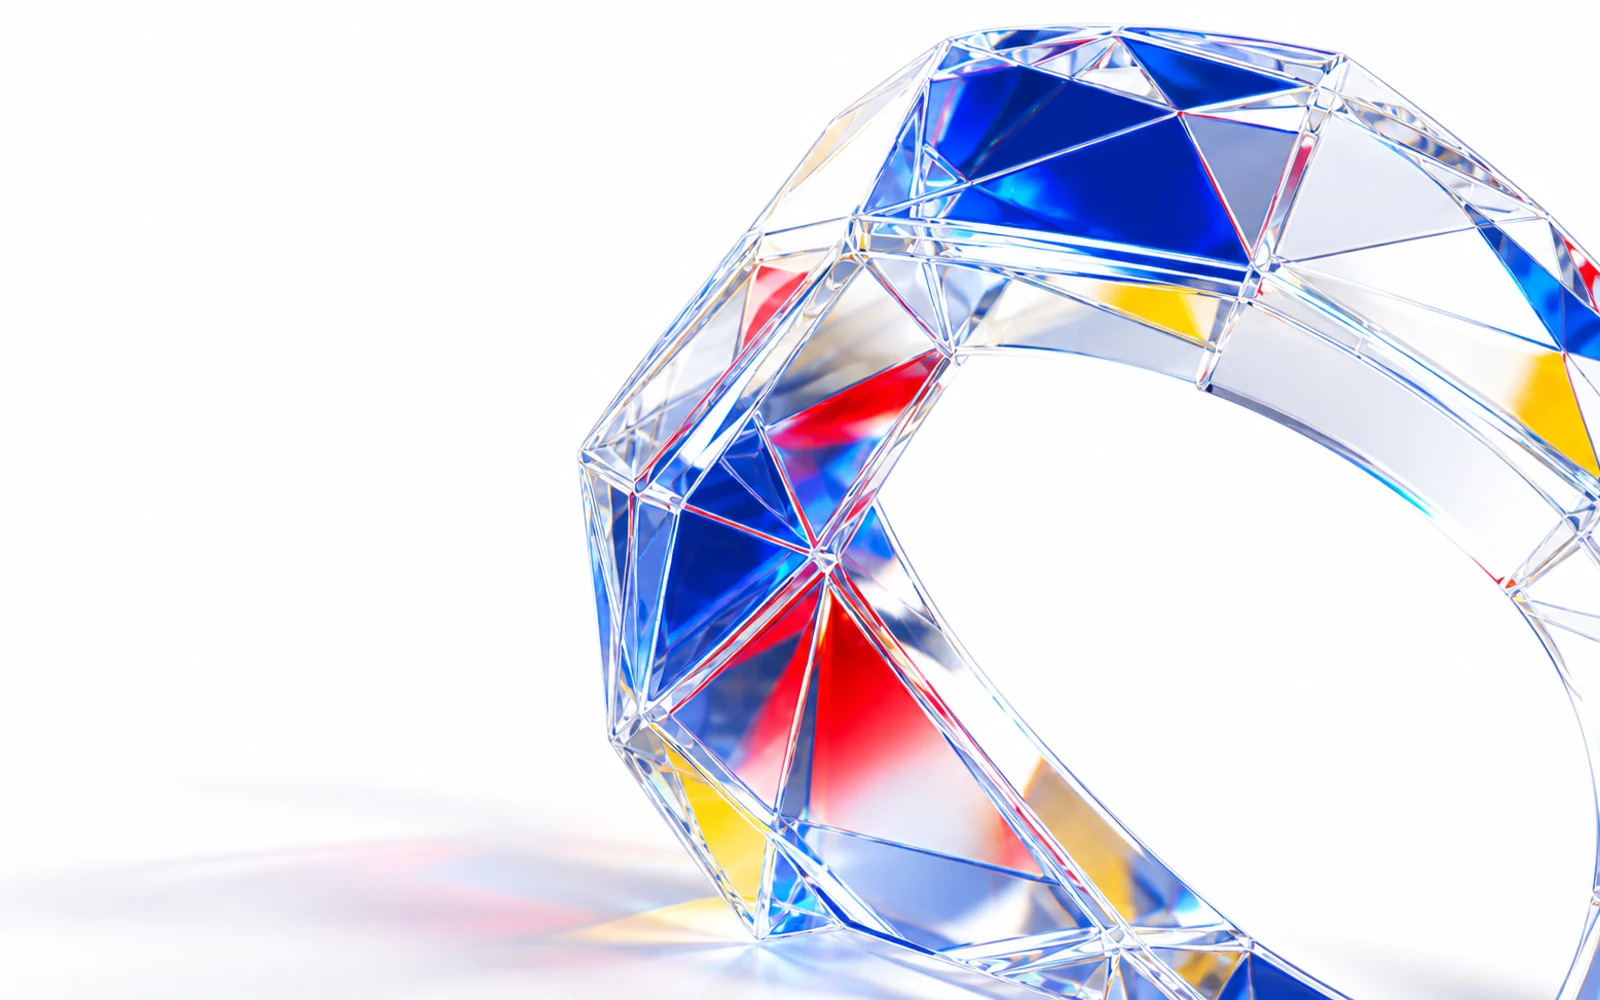
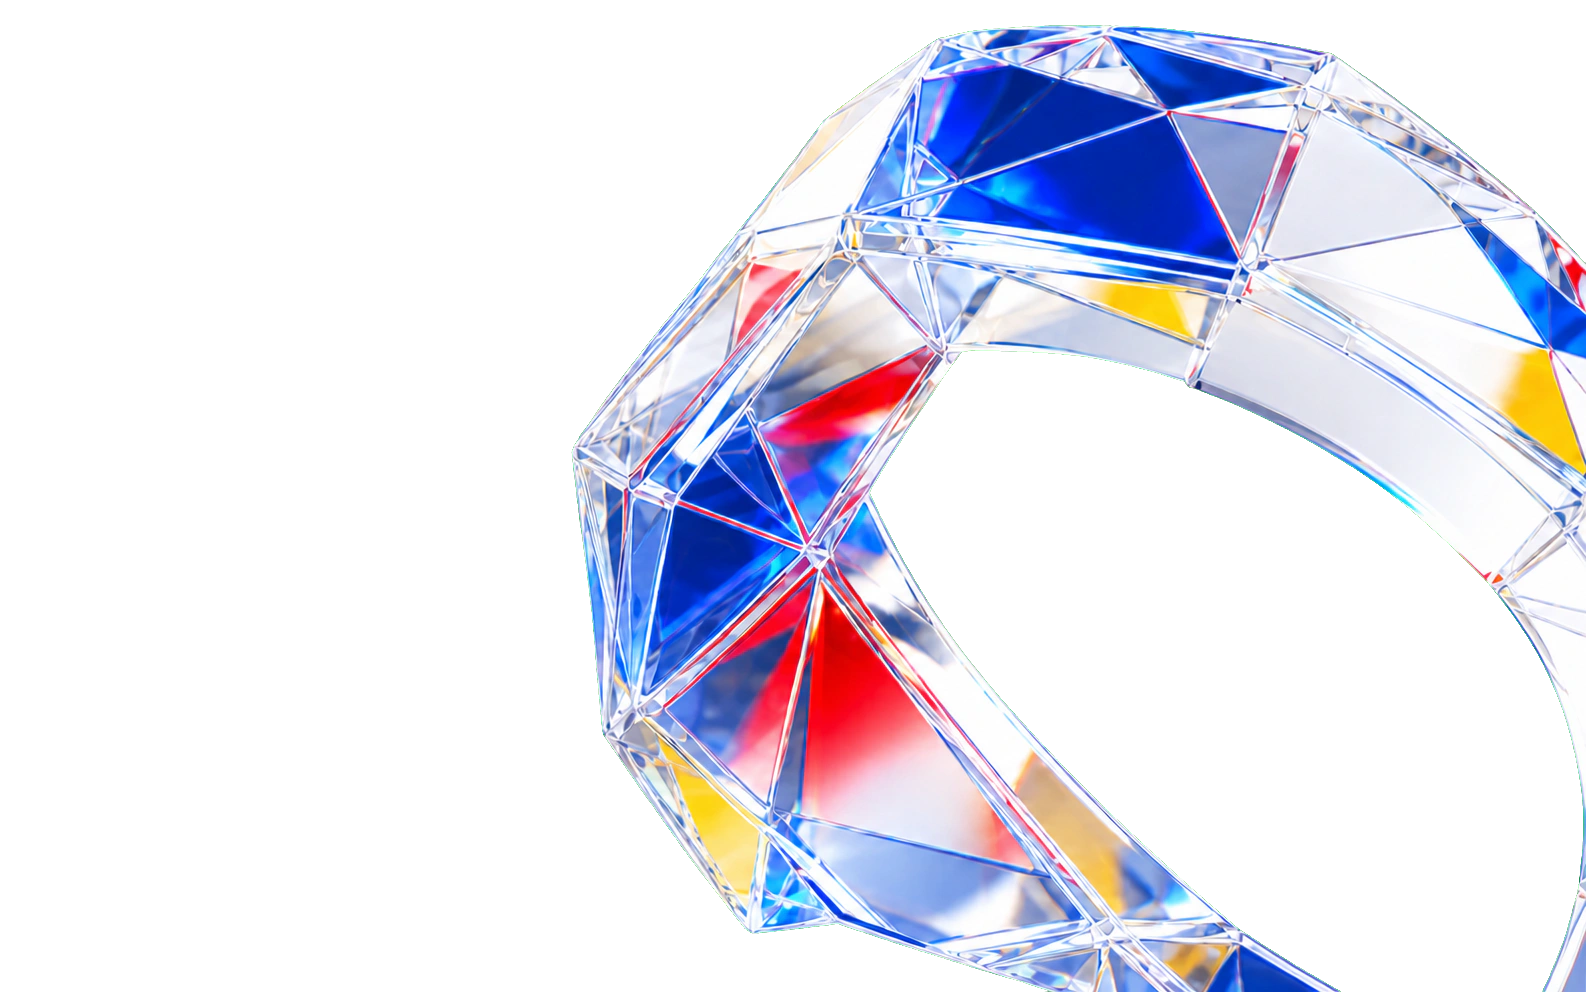
fix: preserve contact ring and focus visibility

diff --git a/src/styles/contact.css b/src/styles/contact.css
@@ -80,7 +80,6 @@
   right: -4%;
   width: min(58vw, 62rem);
   max-width: none;
-  mix-blend-mode: darken;
   pointer-events: none;
 }
 
@@ -112,6 +111,11 @@
   border-bottom: 0;
 }
 
+.contact__links a:focus-visible {
+  outline-color: var(--cobalt);
+  outline-offset: -5px;
+}
+
 .contact__links svg {
   width: 3.75rem;
   fill: none;
@@ -141,6 +145,10 @@
 
 .contact__footer nav a {
   position: relative;
+}
+
+.contact__footer nav a:focus-visible {
+  outline-color: var(--cobalt);
 }
 
 .contact__footer nav a:not(:last-child)::after {
